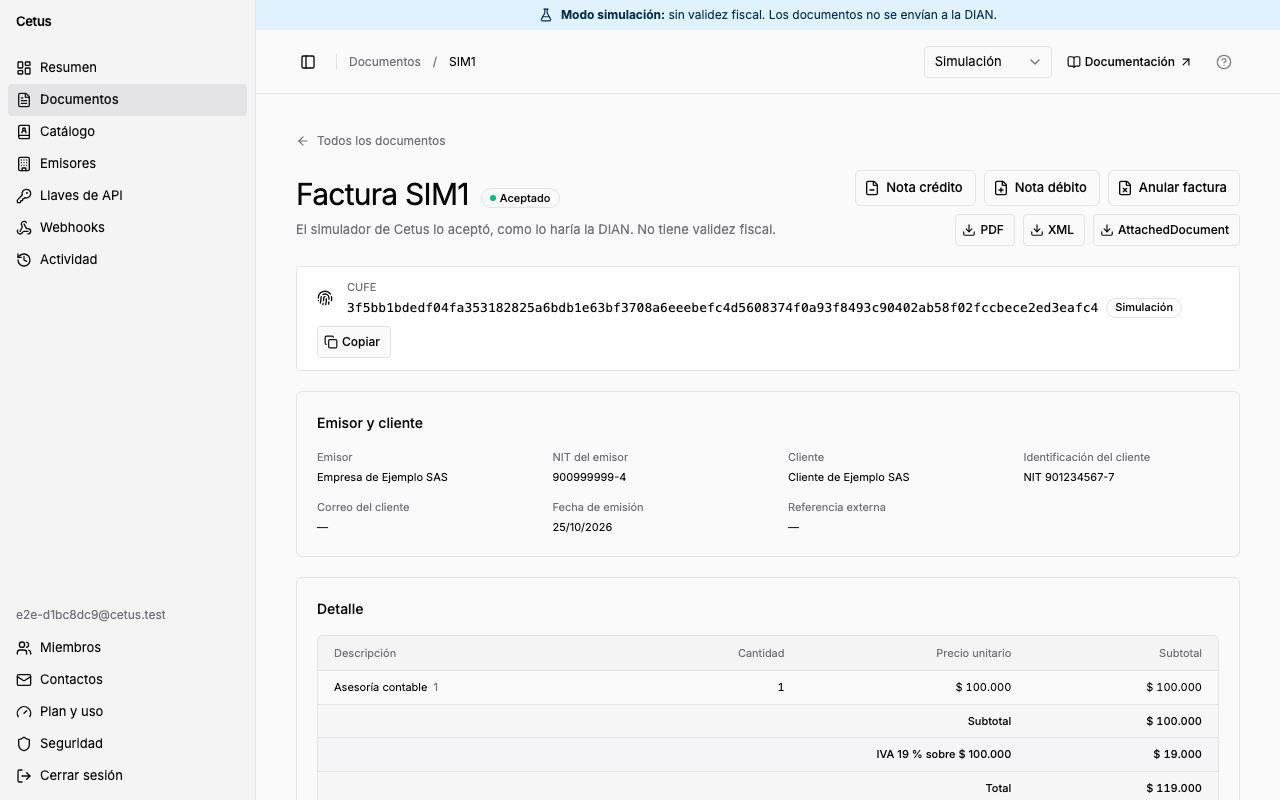
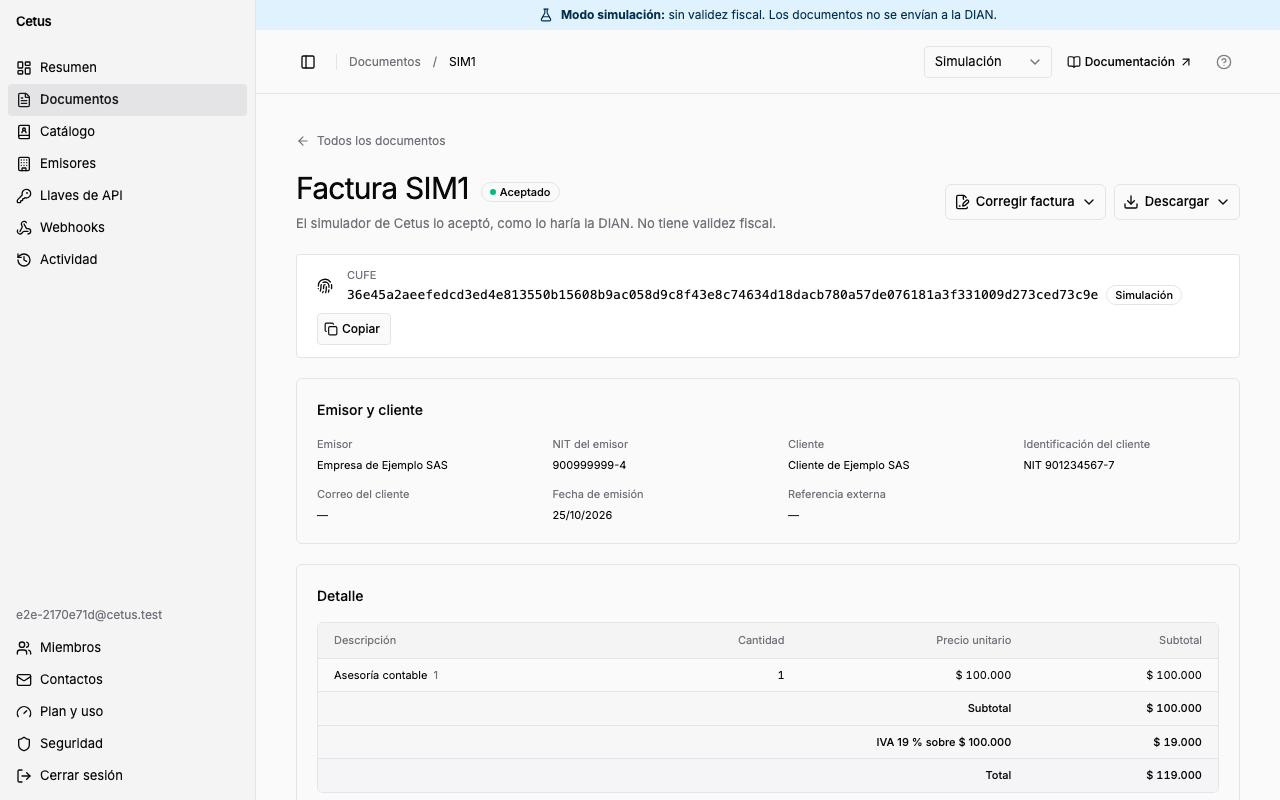
[console] Group the document header actions into two menus
The detail of an accepted invoice showed six outline buttons with no
hierarchy. Corrections (credit note, debit note, cancellation) now live
in a "Corregir factura" menu, with the cancellation marked destructive,
and the files in a "Descargar" menu.

The reasons an action is blocked showed only in tooltips on disabled
buttons, out of reach for keyboard and touch. They are now text: under
the menu when the person cannot issue in LIVE, and described on the
focusable disabled "Anular factura" item when credit notes already took
part of the invoice.

diff --git a/apps/console/src/routes/_app/documents/$documentId.tsx b/apps/console/src/routes/_app/documents/$documentId.tsx
@@ -2,18 +2,28 @@ import { useSuspenseQuery } from "@tanstack/react-query";
 import { Link, createFileRoute, notFound } from "@tanstack/react-router";
 import {
   ArrowLeftIcon,
+  ChevronDownIcon,
   FileMinusIcon,
+  FilePenLineIcon,
   FilePlusIcon,
   FileTextIcon,
   FileXIcon,
   FingerprintIcon,
 } from "lucide-react";
+import { useId, useState } from "react";
 
 import { CopyButton } from "~/components/CopyButton";
 import { Entry, Section } from "~/components/DetailSection";
 import { EnvironmentBadge } from "~/components/EnvironmentBadge";
 import { PageHeader } from "~/components/PageHeader";
 import { Button, buttonVariants } from "~/components/ui/button";
+import {
+  DropdownMenu,
+  DropdownMenuContent,
+  DropdownMenuItem,
+  DropdownMenuSeparator,
+  DropdownMenuTrigger,
+} from "~/components/ui/dropdown-menu";
 import {
   Empty,
   EmptyContent,
@@ -31,9 +41,8 @@ import {
   TableHeader,
   TableRow,
 } from "~/components/ui/table";
-import { Tooltip, TooltipContent, TooltipTrigger } from "~/components/ui/tooltip";
 import { formatDateTime } from "~/features/api-keys/formats";
-import { CancelInvoice } from "~/features/documents/CancelInvoice";
+import { CancelInvoice, isCancellationBlocked } from "~/features/documents/CancelInvoice";
 import { DianErrors } from "~/features/documents/DianErrors";
 import { DocumentDownloads } from "~/features/documents/DocumentDownloads";
 import { DocumentStatusBadge } from "~/features/documents/DocumentStatusBadge";
@@ -99,7 +108,7 @@ function DocumentDetailPage() {
         status={<DocumentStatusBadge status={document.status} />}
         lead={documentLead(document.status, document.environment)}
         action={
-          <div className="flex flex-col items-start gap-2 sm:items-end">
+          <div className="flex flex-wrap items-start gap-2">
             {isInvoice && document.status === "ACCEPTED" && (
               <InvoiceCorrections invoice={document} />
             )}
@@ -296,48 +305,70 @@ function DocumentDetailPage() {
  */
 function InvoiceCorrections({ invoice }: { invoice: DocumentDetail }) {
   const blockedReason = useBlockedReason(invoice.environment);
-  if (blockedReason) {
-    return (
-      <Tooltip>
-        <TooltipTrigger render={<span className="flex w-fit flex-wrap gap-2" />}>
-          <Button variant="outline" disabled>
-            <FileMinusIcon data-icon="inline-start" />
-            Nota crédito
-          </Button>
-          <Button variant="outline" disabled>
-            <FilePlusIcon data-icon="inline-start" />
-            Nota débito
-          </Button>
-          <Button variant="outline" disabled>
-            <FileXIcon data-icon="inline-start" />
-            Anular factura
-          </Button>
-        </TooltipTrigger>
-        <TooltipContent className="max-w-64">{blockedReason}</TooltipContent>
-      </Tooltip>
-    );
-  }
+  const [cancelling, setCancelling] = useState(false);
+  const cancellationBlocked = isCancellationBlocked(invoice);
+  const cancellationReasonId = useId();
+
   return (
-    <div className="flex flex-wrap gap-2">
-      <Link
-        to="/documents/$documentId/notes/new"
-        params={{ documentId: invoice.id }}
-        search={{ type: "CREDIT_NOTE" }}
-        className={cn(buttonVariants({ variant: "outline" }))}
-      >
-        <FileMinusIcon data-icon="inline-start" />
-        Nota crédito
-      </Link>
-      <Link
-        to="/documents/$documentId/notes/new"
-        params={{ documentId: invoice.id }}
-        search={{ type: "DEBIT_NOTE" }}
-        className={cn(buttonVariants({ variant: "outline" }))}
-      >
-        <FilePlusIcon data-icon="inline-start" />
-        Nota débito
-      </Link>
-      <CancelInvoice invoice={invoice} />
+    <div className="flex flex-col items-start gap-2 sm:items-end">
+      <DropdownMenu>
+        <DropdownMenuTrigger
+          render={<Button variant="outline" className="group" disabled={blockedReason !== null} />}
+        >
+          <FilePenLineIcon data-icon="inline-start" />
+          Corregir factura
+          <ChevronDownIcon
+            data-icon="inline-end"
+            className="transition-transform group-data-popup-open:rotate-180"
+          />
+        </DropdownMenuTrigger>
+        <DropdownMenuContent align="end" className="w-auto max-w-72">
+          <DropdownMenuItem
+            render={
+              <Link
+                to="/documents/$documentId/notes/new"
+                params={{ documentId: invoice.id }}
+                search={{ type: "CREDIT_NOTE" }}
+              />
+            }
+          >
+            <FileMinusIcon />
+            Nota crédito
+          </DropdownMenuItem>
+          <DropdownMenuItem
+            render={
+              <Link
+                to="/documents/$documentId/notes/new"
+                params={{ documentId: invoice.id }}
+                search={{ type: "DEBIT_NOTE" }}
+              />
+            }
+          >
+            <FilePlusIcon />
+            Nota débito
+          </DropdownMenuItem>
+          <DropdownMenuSeparator />
+          <DropdownMenuItem
+            variant="destructive"
+            disabled={cancellationBlocked}
+            aria-describedby={cancellationBlocked ? cancellationReasonId : undefined}
+            onClick={() => setCancelling(true)}
+          >
+            <FileXIcon />
+            Anular factura
+          </DropdownMenuItem>
+          {cancellationBlocked && (
+            <div id={cancellationReasonId} className="px-1.5 py-1 text-2xs text-muted-foreground">
+              Ya tiene notas crédito por parte de su valor: emite el resto con una nota crédito
+              parcial.
+            </div>
+          )}
+        </DropdownMenuContent>
+      </DropdownMenu>
+      {blockedReason && (
+        <p className="max-w-64 text-2xs text-muted-foreground sm:text-right">{blockedReason}</p>
+      )}
+      <CancelInvoice invoice={invoice} open={cancelling} onOpenChange={setCancelling} />
     </div>
   );
 }

diff --git a/apps/console/src/features/documents/CancelInvoice.tsx b/apps/console/src/features/documents/CancelInvoice.tsx
@@ -1,6 +1,5 @@
 import { useMutation, useQueryClient } from "@tanstack/react-query";
 import { Link, useNavigate } from "@tanstack/react-router";
-import { FileXIcon } from "lucide-react";
 import { useId, useState } from "react";
 
 import { Alert, AlertDescription } from "~/components/ui/alert";
@@ -12,13 +11,11 @@ import {
   AlertDialogFooter,
   AlertDialogHeader,
   AlertDialogTitle,
-  AlertDialogTrigger,
 } from "~/components/ui/alert-dialog";
 import { Button } from "~/components/ui/button";
 import { Field, FieldDescription, FieldLabel } from "~/components/ui/field";
 import { Spinner } from "~/components/ui/spinner";
 import { Textarea } from "~/components/ui/textarea";
-import { Tooltip, TooltipContent, TooltipTrigger } from "~/components/ui/tooltip";
 import { auditLogKey } from "~/features/audit-log/queries";
 import type { DocumentDetail } from "~/lib/api/types";
 
@@ -27,11 +24,23 @@ import { documentsKey } from "./queries";
 import { cancelInvoice } from "./server";
 
 /**
- * Cancels an accepted invoice with a credit note for all of it. Only offered while no credit note took
- * part of the invoice: then the full cancellation would exceed what is left to credit.
+ * Whether a credit note already took part of the invoice: then the full cancellation would exceed what is
+ * left to credit.
  */
-export function CancelInvoice({ invoice }: { invoice: DocumentDetail }) {
-  const [open, setOpen] = useState(false);
+export function isCancellationBlocked(invoice: DocumentDetail) {
+  return invoice.balance !== null && invoice.balance < invoice.totals.payable;
+}
+
+/** Cancels an accepted invoice with a credit note for all of it. */
+export function CancelInvoice({
+  invoice,
+  open,
+  onOpenChange,
+}: {
+  invoice: DocumentDetail;
+  open: boolean;
+  onOpenChange: (open: boolean) => void;
+}) {
   const [description, setDescription] = useState("");
   // One key per opening of the dialog: submitting twice issues a single note.
   const [idempotencyKey, setIdempotencyKey] = useState(() => crypto.randomUUID());
@@ -48,46 +57,25 @@ export function CancelInvoice({ invoice }: { invoice: DocumentDetail }) {
         queryClient.invalidateQueries({ queryKey: documentsKey }),
         queryClient.invalidateQueries({ queryKey: auditLogKey }),
       ]);
-      setOpen(false);
+      onOpenChange(false);
       await navigate({ to: "/documents/$documentId", params: { documentId: result.id } });
     },
   });
   const pending = cancel.isPending;
   const failure = cancel.data && !cancel.data.ok ? cancel.data : null;
-  const blocked = invoice.balance !== null && invoice.balance < invoice.totals.payable;
-
-  if (blocked) {
-    return (
-      <Tooltip>
-        <TooltipTrigger render={<span className="w-fit" />}>
-          <Button variant="outline" disabled>
-            <FileXIcon data-icon="inline-start" />
-            Anular factura
-          </Button>
-        </TooltipTrigger>
-        <TooltipContent className="max-w-64">
-          Ya tiene notas crédito por parte de su valor: emite el resto con una nota crédito parcial.
-        </TooltipContent>
-      </Tooltip>
-    );
-  }
 
   return (
     <AlertDialog
       open={open}
-      onOpenChange={(next) => {
-        setOpen(next);
-        if (next) {
+      onOpenChange={onOpenChange}
+      onOpenChangeComplete={(next) => {
+        if (!next) {
           setIdempotencyKey(crypto.randomUUID());
           setDescription("");
           cancel.reset();
         }
       }}
     >
-      <AlertDialogTrigger render={<Button variant="outline" />}>
-        <FileXIcon data-icon="inline-start" />
-        Anular factura
-      </AlertDialogTrigger>
       <AlertDialogContent>
         <form
           className="contents"

diff --git a/apps/console/src/features/documents/DocumentDownloads.tsx b/apps/console/src/features/documents/DocumentDownloads.tsx
@@ -1,7 +1,13 @@
 import { useMutation } from "@tanstack/react-query";
-import { DownloadIcon } from "lucide-react";
+import { ChevronDownIcon, DownloadIcon } from "lucide-react";
 
 import { Button } from "~/components/ui/button";
+import {
+  DropdownMenu,
+  DropdownMenuContent,
+  DropdownMenuItem,
+  DropdownMenuTrigger,
+} from "~/components/ui/dropdown-menu";
 import { Spinner } from "~/components/ui/spinner";
 import type { DocumentFile } from "~/lib/api/types";
 
@@ -35,24 +41,29 @@ export function DocumentDownloads({ documentId }: { documentId: string }) {
 
   return (
     <div className="flex flex-col items-start gap-2 sm:items-end">
-      <div className="flex flex-wrap gap-2">
-        {files.map(({ file, label }) => (
-          <Button
-            key={file}
-            variant="outline"
-            size="sm"
-            disabled={download.isPending}
-            onClick={() => download.mutate(file)}
-          >
-            {download.isPending && download.variables === file ? (
-              <Spinner data-icon="inline-start" />
-            ) : (
-              <DownloadIcon data-icon="inline-start" />
-            )}
-            {label}
-          </Button>
-        ))}
-      </div>
+      <DropdownMenu>
+        <DropdownMenuTrigger
+          render={<Button variant="outline" className="group" disabled={download.isPending} />}
+        >
+          {download.isPending ? (
+            <Spinner data-icon="inline-start" />
+          ) : (
+            <DownloadIcon data-icon="inline-start" />
+          )}
+          Descargar
+          <ChevronDownIcon
+            data-icon="inline-end"
+            className="transition-transform group-data-popup-open:rotate-180"
+          />
+        </DropdownMenuTrigger>
+        <DropdownMenuContent align="end" className="w-auto">
+          {files.map(({ file, label }) => (
+            <DropdownMenuItem key={file} onClick={() => download.mutate(file)}>
+              {label}
+            </DropdownMenuItem>
+          ))}
+        </DropdownMenuContent>
+      </DropdownMenu>
       {message && <output className="text-2xs text-muted-foreground">{message}</output>}
     </div>
   );

diff --git a/apps/console/tests/e2e/documents.spec.ts b/apps/console/tests/e2e/documents.spec.ts
@@ -37,7 +37,8 @@ test("the documents page lists the invoices and opens their detail", async ({
   await expect(page.getByText("Cliente Dos")).toBeVisible();
   await expect(page.getByText("Servicio de consultoría")).toBeVisible();
   await expect(page.getByText("Recibido por Cetus")).toBeVisible();
-  await expect(page.getByRole("button", { name: "PDF" })).toBeVisible();
+  await page.getByRole("button", { name: "Descargar" }).click();
+  await expect(page.getByRole("menuitem", { name: "PDF" })).toBeVisible();
 });
 
 test("an unknown document shows a not found page", async ({ page, organization: _ }) => {
@@ -69,7 +70,8 @@ test("an accepted invoice is cancelled from its detail with a credit note", asyn
   expect(await waitForStatus(organization, invoice.id)).toBe("ACCEPTED");
 
   await open(page, `/documents/${invoice.id}`);
-  await page.getByRole("button", { name: "Anular factura" }).click();
+  await page.getByRole("button", { name: "Corregir factura" }).click();
+  await page.getByRole("menuitem", { name: "Anular factura" }).click();
   const dialog = page.getByRole("alertdialog");
   await expect(dialog.getByText(`¿Anular la factura ${invoice.number}?`)).toBeVisible();
   await expect(dialog.getByRole("button", { name: "Emitir nota de anulación" })).toBeDisabled();
@@ -83,5 +85,8 @@ test("an accepted invoice is cancelled from its detail with a credit note", asyn
   await expect(page.getByRole("heading", { name: `Factura ${invoice.number}` })).toBeVisible();
   await expect(page.getByRole("link", { name: /^NC/ })).toBeVisible();
   // Nothing is left to credit, so the cancellation is no longer offered.
-  await expect(page.getByRole("button", { name: "Anular factura" })).toBeDisabled();
+  await page.getByRole("button", { name: "Corregir factura" }).click();
+  const cancellation = page.getByRole("menuitem", { name: "Anular factura" });
+  await expect(cancellation).toBeDisabled();
+  await expect(cancellation).toHaveAccessibleDescription(/Ya tiene notas crédito/);
 });

diff --git a/apps/console/tests/e2e/issuance.spec.ts b/apps/console/tests/e2e/issuance.spec.ts
@@ -26,8 +26,9 @@ test("a new organization issues its first simulated invoice from the overview", 
   await expect(page.getByRole("heading", { name: /^Factura SIM\d+$/ })).toBeVisible();
   // The page refreshes itself until the simulator answers.
   await expect(page.getByText("El simulador de Cetus lo aceptó")).toBeVisible({ timeout: 20_000 });
-  await expect(page.getByRole("button", { name: "PDF" })).toBeVisible();
-  await expect(page.getByRole("button", { name: "XML" })).toBeVisible();
+  await page.getByRole("button", { name: "Descargar" }).click();
+  await expect(page.getByRole("menuitem", { name: "PDF" })).toBeVisible();
+  await expect(page.getByRole("menuitem", { name: "XML" })).toBeVisible();
 });
 
 test("an invoice is filled in by hand in habilitación", async ({ page, organization }) => {
@@ -114,7 +115,8 @@ test("an accepted invoice is corrected with a partial credit note", async ({
   expect(await waitForStatus(organization, invoice.id)).toBe("ACCEPTED");
 
   await open(page, `/documents/${invoice.id}`);
-  await page.getByRole("link", { name: "Nota crédito" }).click();
+  await page.getByRole("button", { name: "Corregir factura" }).click();
+  await page.getByRole("menuitem", { name: "Nota crédito" }).click();
   await expect(page.getByRole("heading", { name: "Emitir nota crédito" })).toBeVisible();
   await expect(page.getByText("Puedes acreditar hasta $ 119.000")).toBeVisible();
   await page.getByLabel("Descripción", { exact: true }).fill("Descuento acordado con el cliente");

diff --git a/apps/console/tests/screenshots/quickstart.spec.ts b/apps/console/tests/screenshots/quickstart.spec.ts
@@ -31,7 +31,7 @@ test("the first simulated invoice, from the console", async ({ page }) => {
 
   await page.getByRole("button", { name: "Emitir factura" }).click();
   await expect(page.getByText("El simulador de Cetus lo aceptó")).toBeVisible({ timeout: 20_000 });
-  await expect(page.getByRole("button", { name: "PDF" })).toBeVisible();
+  await expect(page.getByRole("button", { name: "Descargar" })).toBeVisible();
   await capture(page, "factura-aceptada");
 });
 
